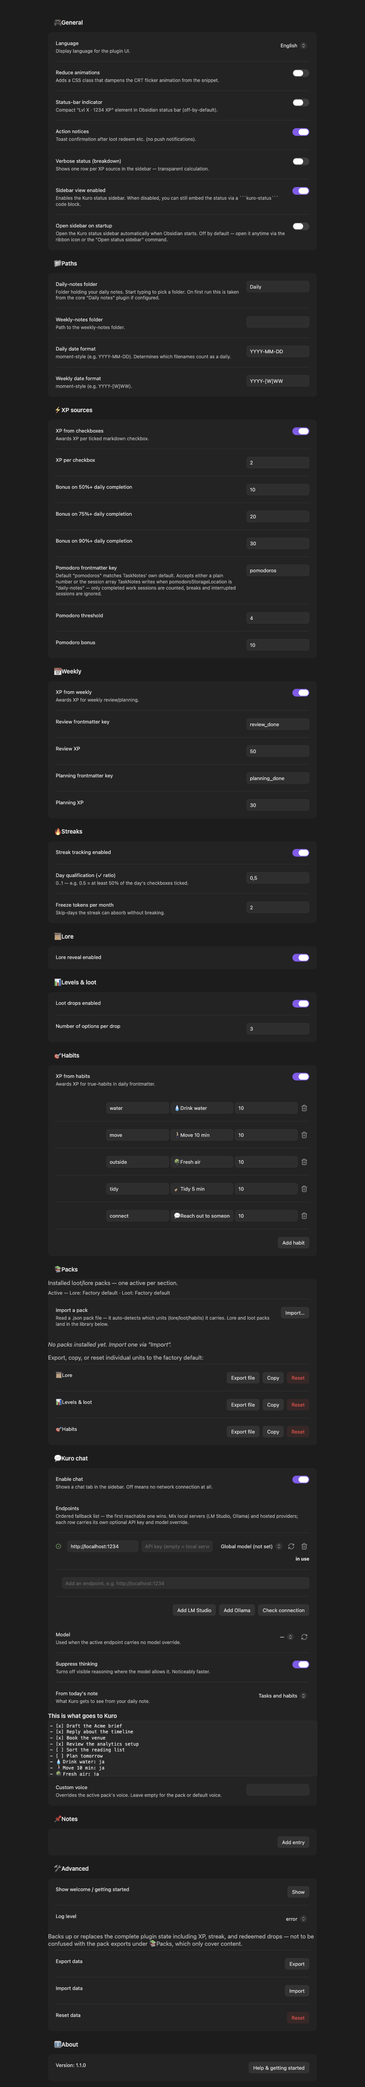
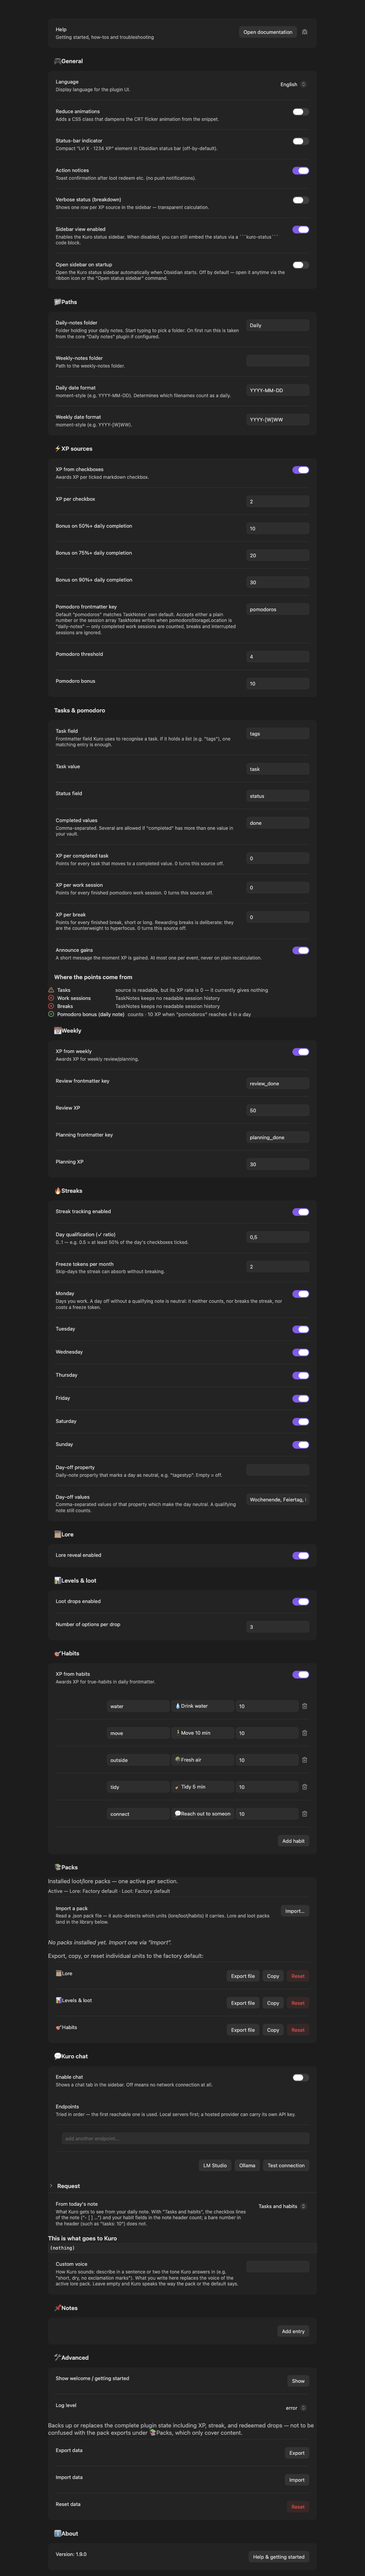
docs(images): Einstellungs-Bild neu aufgenommen (14 Abschnitte, Englisch, ohne globales Modell)

diff --git a/scripts/shots.ts b/scripts/shots.ts
@@ -415,7 +415,7 @@ async function settingsBild(cdp: Cdp, port: number, outDir: string): Promise<str
 
     // Erst messen, dann so hoch simulieren: eine feste Simulationshöhe schneidet einen
     // langen Tab ab und füllt den Rest schwarz.
-    const png = await withMetrics(fenster, 1200, Math.min(hoehe + 80, 6000), async () => {
+    const png = await withMetrics(fenster, 1200, Math.min(hoehe + 80, 7600), async () => {
       await new Promise((r) => setTimeout(r, 600));
       const box = await fenster.evaluate<Rect | null>(`
         const c = document.querySelector(".vertical-tab-content");

diff --git a/docs/images/README.md b/docs/images/README.md
@@ -17,7 +17,7 @@ Datei, eine Datei ohne Eintrag und eine Einbettung ohne Vertragszeile sind je ei
 | `chat.png` | feature | README (EN+DE), § Companion chat | Dasselbe Fenster mit geöffnetem Chat-Tab: Tab-Leiste (Status · Chat), Kontext-Ausklapper („Kuro currently sees …"), ein Gespräch aus vier Nachrichten, die Eingabezeile **am unteren Rand**. |
 | `status-block.png` | feature | README (EN+DE), § Status code block | Der `kuro-status`-Codeblock, wie er in einer gewöhnlichen Notiz rendert — mit erklärendem Text darüber und dem Lore-Callout darunter. |
 | `loot-redeem.png` | feature | README (EN+DE), § Features | Der Einlös-Dialog: drei Signale mit Tier-Symbol und Kategorie, Abbrechen/Einlösen. |
-| `settings.png` | detail | README (EN+DE), § Configuration — als 380-px-Vorschau aus `thumbs/`, verlinkt auf die Vollauflösung | Der Einstellungs-Tab **ganz**, alle elf Abschnitte von „General" bis „About". Zu hoch für eine Inline-Einbettung (H/B 5.7) — deshalb Vorschau mit Bildunterschrift. |
+| `settings.png` | detail | README (EN+DE), § Configuration — als 380-px-Vorschau aus `thumbs/`, verlinkt auf die Vollauflösung | Der Einstellungs-Tab **ganz**, alle vierzehn Abschnitte von „General" bis „About". Zu hoch für eine Inline-Einbettung (H/B 7.0) — deshalb Vorschau mit Bildunterschrift. |
 
 ## Reproduzieren
 
@@ -56,6 +56,8 @@ verbietet ihn zu Recht).
 - **Ein laufendes Obsidian mit offenem Debug-Port**, im Aufnahme-Vault. Kein LM Studio: der
   Chat-Verlauf wird gesetzt, nicht generiert (s. u.).
 - **Sonst nichts.** Kein Modell, kein Server, keine Zugangsdaten.
+- **Obsidians Oberfläche auf Englisch, bevor `--setup` läuft** (`obsidian.json` `"language": "en"` und `localStorage["language"]`). Der erste Plugin-Start übernimmt die Obsidian-Sprache als Kuro-Sprache; in einer deutschen Instanz zeigt der Einstellungs-Tab trotz `language = "en"` im Rezept deutsche Texte (gemessen 2026-10-10).
+- **Höhe des Einstellungs-Bilds:** `settingsBild` simuliert höchstens 7600 px; mit 14 Abschnitten reichen die früheren 6000 nicht mehr und das Bild endet in Leere vor „Notes“.
 
 ## Zwei Festlegungen, die das Ergebnis bestimmen
 

diff --git a/README.de.md b/README.de.md
@@ -93,9 +93,9 @@ Optional danach das CRT-Phosphor-CSS-Snippet einrichten — siehe [Ästhetik-CSS
 
 ## Konfiguration
 
-<a href="https://raw.githubusercontent.com/johannes-kaindl/kuro-gamification/main/docs/images/settings.png"><img src="https://raw.githubusercontent.com/johannes-kaindl/kuro-gamification/main/docs/images/thumbs/settings.png" width="380" alt="Kuro-Einstellungen, alle elf Abschnitte"></a>
+<a href="https://raw.githubusercontent.com/johannes-kaindl/kuro-gamification/main/docs/images/settings.png"><img src="https://raw.githubusercontent.com/johannes-kaindl/kuro-gamification/main/docs/images/thumbs/settings.png" width="380" alt="Kuro-Einstellungen, alle vierzehn Abschnitte"></a>
 
-<sub>Für den vollständigen Einstellungs-Tab (elf Abschnitte) auf die Vorschau klicken.</sub>
+<sub>Für den vollständigen Einstellungs-Tab (vierzehn Abschnitte) auf die Vorschau klicken.</sub>
 
 
 | Sektion | Was sie steuert |

diff --git a/README.md b/README.md
@@ -93,9 +93,9 @@ Optionally install the CRT/phosphor aesthetic CSS snippet afterwards — see [Ae
 
 ## Configuration
 
-<a href="https://raw.githubusercontent.com/johannes-kaindl/kuro-gamification/main/docs/images/settings.png"><img src="https://raw.githubusercontent.com/johannes-kaindl/kuro-gamification/main/docs/images/thumbs/settings.png" width="380" alt="Kuro settings tab, all eleven sections"></a>
+<a href="https://raw.githubusercontent.com/johannes-kaindl/kuro-gamification/main/docs/images/settings.png"><img src="https://raw.githubusercontent.com/johannes-kaindl/kuro-gamification/main/docs/images/thumbs/settings.png" width="380" alt="Kuro settings tab, all fourteen sections"></a>
 
-<sub>Click the preview for the full settings tab (eleven sections).</sub>
+<sub>Click the preview for the full settings tab (fourteen sections).</sub>
 
 
 | Section | What it controls |
